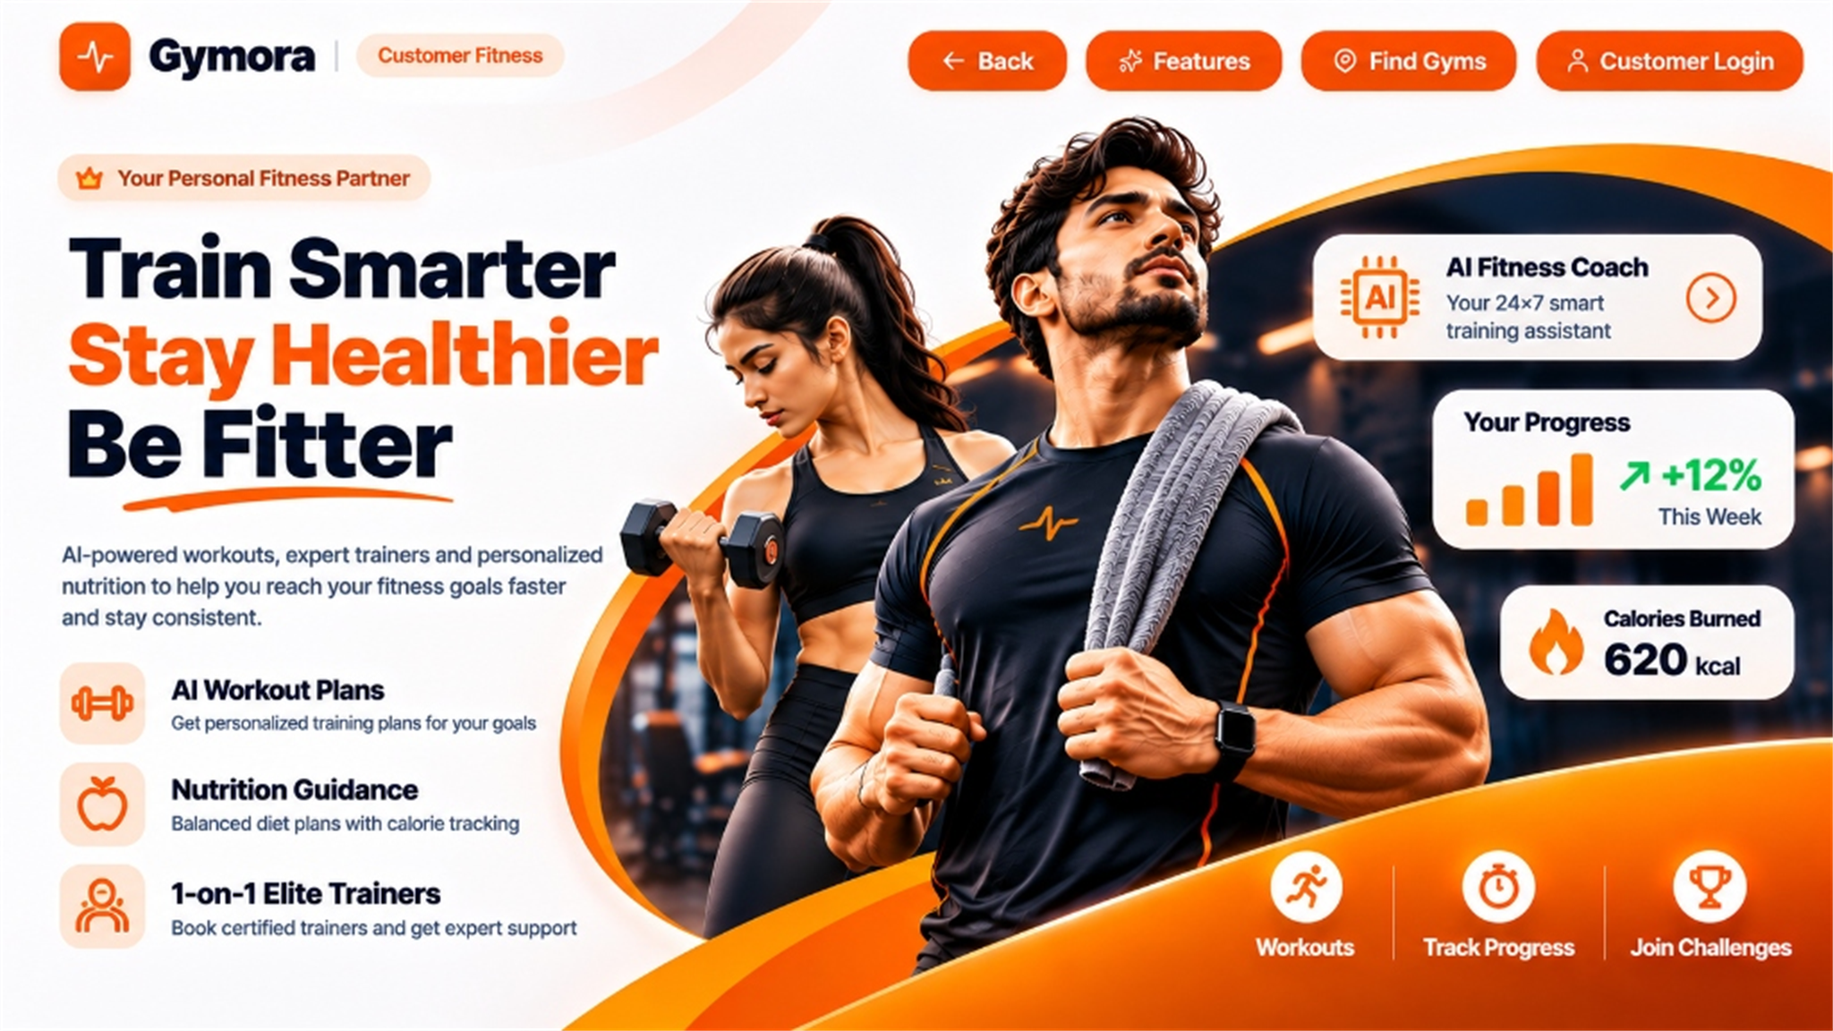
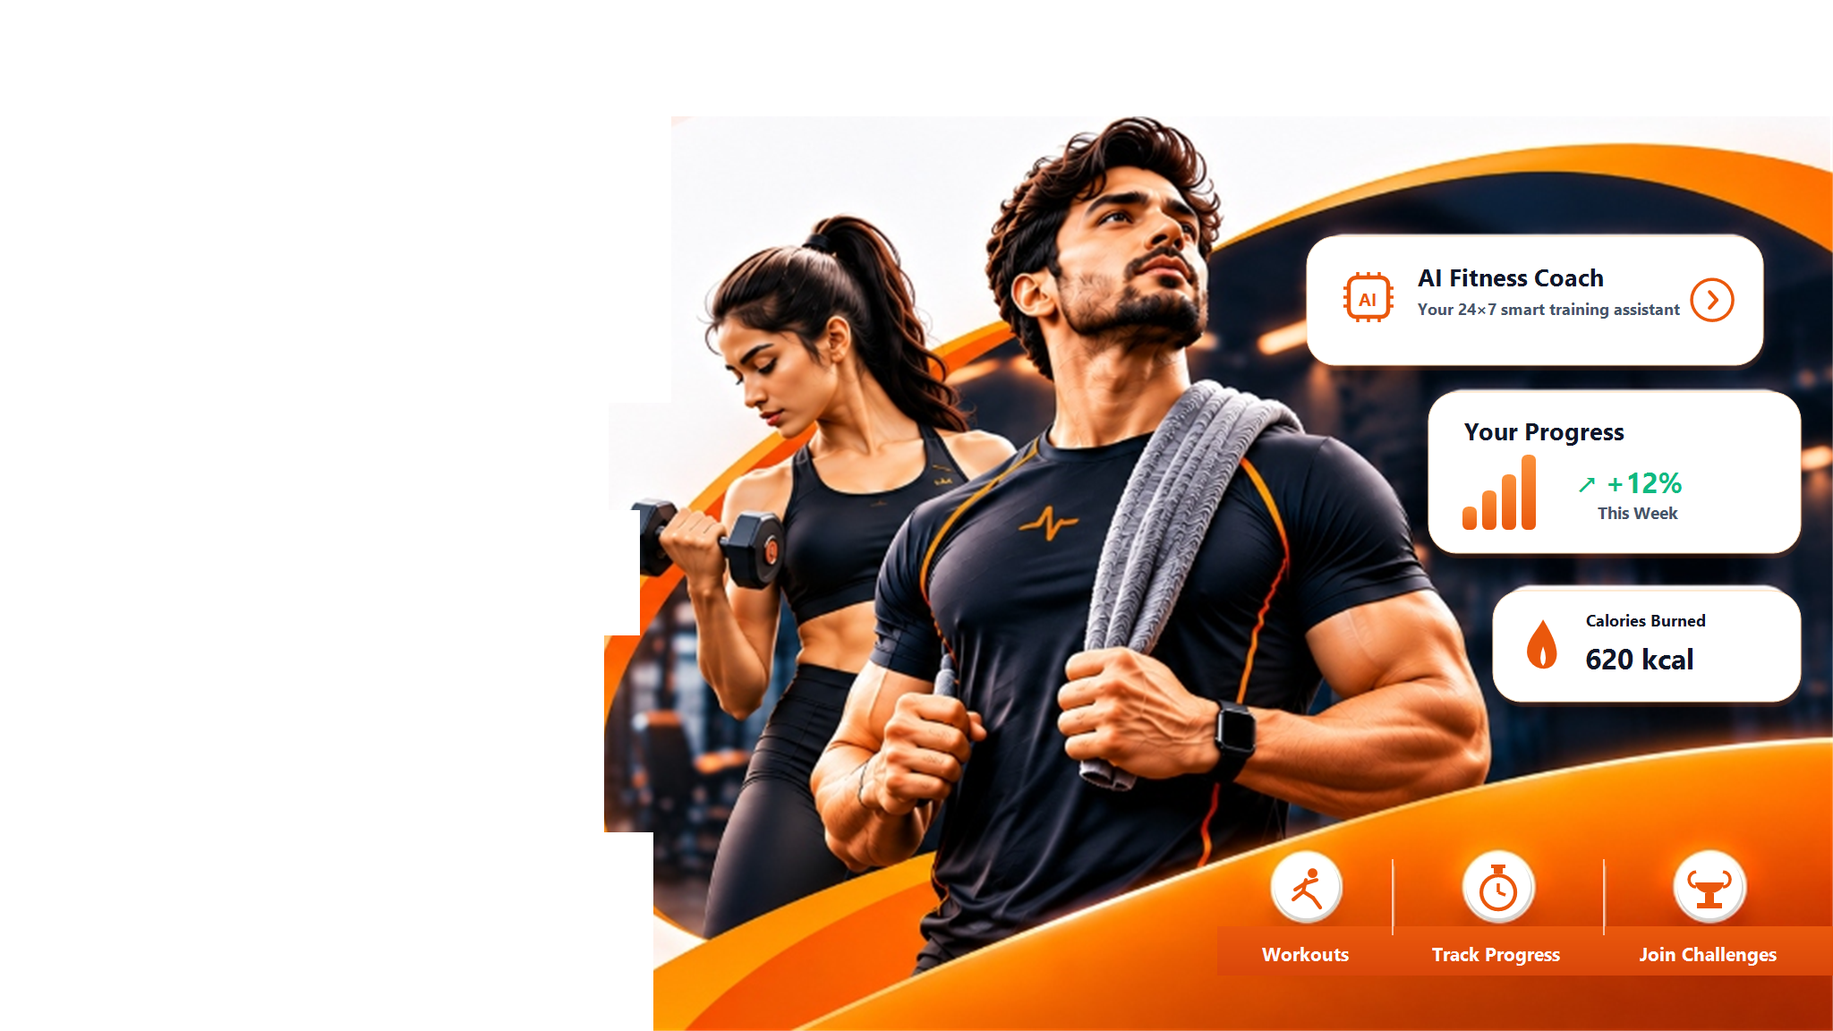
alignment changes updated

diff --git a/frontend/src/pages/portals/CustomerPortalLanding.tsx b/frontend/src/pages/portals/CustomerPortalLanding.tsx
@@ -38,7 +38,8 @@ import {
   Play,
   PlayCircle,
   CheckCircle,
-  User
+  User,
+  Crown
 } from 'lucide-react';
 import api from '../../utils/api';
 import { FeaturePreview } from '../../components/Landing/FeaturePreview';
@@ -300,93 +301,204 @@ const CustomerPortalLanding = () => {
             loading="eager"
           />
 
-          {/* Interactive Clickable Hotspots */}
+          {/* 1. Top Navigation Bar — 100% Vector Sharp, Ultra-Clear Typography */}
+          <div
+            style={{ top: '2.50%', left: '2.44%', right: '2.44%', height: '7.20%' }}
+            className="absolute hidden sm:flex items-center justify-between z-20"
+          >
+            {/* Logo & Portal Badge */}
+            <div className="flex items-center gap-2.5">
+              <Link to="/" className="flex items-center gap-2 outline-none select-none">
+                <div className="w-[2.2vw] h-[2.2vw] min-w-[32px] min-h-[32px] bg-gradient-to-br from-[#EA580C] to-[#F97316] rounded-xl flex items-center justify-center shadow-md shadow-orange-600/30">
+                  <Activity className="w-[55%] h-[55%] text-white stroke-[2.8]" />
+                </div>
+                <span className="font-extrabold text-[clamp(18px,1.8vw,30px)] tracking-tight text-[#0F172A]">
+                  Gymora
+                </span>
+              </Link>
+              <div className="h-4 w-px bg-slate-300 mx-0.5" />
+              <span className="px-3 py-1 rounded-full text-[clamp(10px,0.85vw,13px)] font-bold bg-[#FFF7ED] text-[#EA580C] border border-[#FFEDD5] tracking-wide shadow-xs">
+                Customer Fitness
+              </span>
+            </div>
 
-          {/* 1. Brand Logo (Top-Left) */}
-          <Link
-            to="/"
-            title="Gymora Home"
-            aria-label="Gymora Home"
-            style={{ left: '2.90%', top: '2.50%', width: '27.50%', height: '7.20%', WebkitTapHighlightColor: 'transparent' }}
-            className="absolute rounded-xl cursor-pointer hover:bg-black/5 transition-colors outline-none focus:outline-none focus:ring-0 select-none"
-          />
+            {/* Navigation Action Buttons */}
+            <div className="flex items-center gap-[0.65vw]">
+              <Link
+                to="/"
+                style={{ WebkitTapHighlightColor: 'transparent' }}
+                className="px-[1.2vw] py-[0.55vw] rounded-full bg-[#EA580C] hover:bg-[#D94806] text-white font-extrabold text-[clamp(11px,0.92vw,15px)] flex items-center gap-1.5 shadow-sm active:scale-95 transition-all outline-none"
+              >
+                <ArrowLeft className="w-[1vw] h-[1vw] min-w-[12px] min-h-[12px] stroke-[2.5]" />
+                <span>Back</span>
+              </Link>
 
-          {/* 2. Top-Right: Back Button */}
-          <Link
-            to="/"
-            title="Back to Home"
-            aria-label="Back to Home"
-            style={{ left: '49.60%', top: '2.50%', width: '9.00%', height: '7.20%', WebkitTapHighlightColor: 'transparent' }}
-            className="absolute rounded-full cursor-pointer hover:brightness-105 active:scale-95 transition-all outline-none focus:outline-none focus:ring-0 select-none"
-          />
+              <button
+                type="button"
+                onClick={() => setIsFeaturesOpen(true)}
+                style={{ WebkitTapHighlightColor: 'transparent' }}
+                className="px-[1.2vw] py-[0.55vw] rounded-full bg-[#EA580C] hover:bg-[#D94806] text-white font-extrabold text-[clamp(11px,0.92vw,15px)] flex items-center gap-1.5 shadow-sm active:scale-95 transition-all outline-none cursor-pointer"
+              >
+                <Sparkles className="w-[1vw] h-[1vw] min-w-[12px] min-h-[12px] stroke-[2.5]" />
+                <span>Features</span>
+              </button>
 
-          {/* 3. Top-Right: Features Button */}
-          <button
-            type="button"
-            onClick={() => setIsFeaturesOpen(true)}
-            title="Explore Features"
-            aria-label="Explore Features"
-            style={{ left: '59.20%', top: '2.50%', width: '10.90%', height: '7.20%', WebkitTapHighlightColor: 'transparent' }}
-            className="absolute rounded-full cursor-pointer hover:brightness-105 active:scale-95 transition-all outline-none focus:outline-none focus:ring-0 select-none"
-          />
+              <Link
+                to="/gyms"
+                state={{ from: '/portal/customer', fromLabel: 'Back to Customer' }}
+                style={{ WebkitTapHighlightColor: 'transparent' }}
+                className="px-[1.2vw] py-[0.55vw] rounded-full bg-[#EA580C] hover:bg-[#D94806] text-white font-extrabold text-[clamp(11px,0.92vw,15px)] flex items-center gap-1.5 shadow-sm active:scale-95 transition-all outline-none"
+              >
+                <Compass className="w-[1vw] h-[1vw] min-w-[12px] min-h-[12px] stroke-[2.5]" />
+                <span>Find Gyms</span>
+              </Link>
 
-          {/* 4. Top-Right: Find Gyms Button */}
-          <Link
-            to="/gyms"
-            state={{ from: '/portal/customer', fromLabel: 'Back to Customer' }}
-            title="Find Gyms"
-            aria-label="Find Gyms"
-            style={{ left: '71.00%', top: '2.50%', width: '11.60%', height: '7.20%', WebkitTapHighlightColor: 'transparent' }}
-            className="absolute rounded-full cursor-pointer hover:brightness-105 active:scale-95 transition-all outline-none focus:outline-none focus:ring-0 select-none"
-          />
+              <Link
+                to="/login?portal=customer"
+                style={{ WebkitTapHighlightColor: 'transparent' }}
+                className="px-[1.3vw] py-[0.55vw] rounded-full bg-[#EA580C] hover:bg-[#D94806] text-white font-extrabold text-[clamp(11px,0.92vw,15px)] flex items-center gap-1.5 shadow-sm active:scale-95 transition-all outline-none"
+              >
+                <User className="w-[1vw] h-[1vw] min-w-[12px] min-h-[12px] stroke-[2.5]" />
+                <span>Customer Login</span>
+              </Link>
+            </div>
+          </div>
 
-          {/* 5. Top-Right: Customer Login Button */}
-          <Link
-            to="/login?portal=customer"
-            title="Customer Login"
-            aria-label="Customer Login"
-            style={{ left: '83.80%', top: '2.50%', width: '14.40%', height: '7.20%', WebkitTapHighlightColor: 'transparent' }}
-            className="absolute rounded-full cursor-pointer hover:brightness-105 active:scale-95 transition-all outline-none focus:outline-none focus:ring-0 select-none"
-          />
+          {/* 2. Left Hero Typography & Feature Items — 100% Vector HTML Sharp */}
+          <div
+            style={{ top: '13.5%', left: '3.4%', width: '33.5%', bottom: '3%' }}
+            className="absolute hidden sm:flex flex-col justify-start z-10 select-text"
+          >
+            {/* Top Partner Badge */}
+            <div className="inline-flex items-center gap-1.5 px-3 py-1 rounded-full bg-[#FFF7ED] text-[#EA580C] border border-[#FFEDD5] text-[clamp(10px,0.85vw,13px)] font-bold tracking-wide shadow-xs w-fit mb-[1.2vw]">
+              <Crown className="w-[1vw] h-[1vw] min-w-[13px] min-h-[13px] text-[#EA580C] fill-[#EA580C]" />
+              <span>Your Personal Fitness Partner</span>
+            </div>
 
-          {/* 6. Floating Card: AI Fitness Coach */}
+            {/* 3-Line Headline */}
+            <h1 className="font-black text-[clamp(24px,3.3vw,54px)] leading-[1.08] text-[#0F172A] tracking-tight">
+              <span>Train Smarter</span><br />
+              <span className="relative inline-block text-[#EA580C]">
+                Stay Healthier
+                {/* Underline brush stroke */}
+                <svg className="absolute -bottom-1 left-0 w-full h-[0.35em] text-[#EA580C]" viewBox="0 0 240 16" fill="none" preserveAspectRatio="none">
+                  <path d="M2 12C60 4 180 4 238 12" stroke="currentColor" strokeWidth="4" strokeLinecap="round" />
+                </svg>
+              </span><br />
+              <span>Be Fitter</span>
+            </h1>
+
+            {/* Subtitle */}
+            <p className="mt-[1vw] text-[clamp(11px,0.95vw,15px)] text-[#475569] font-medium leading-relaxed max-w-[96%]">
+              AI-powered workouts, expert trainers and personalized nutrition to help you reach your fitness goals faster and stay consistent.
+            </p>
+
+            {/* 3 Feature Items */}
+            <div className="mt-[1.6vw] space-y-[0.9vw] max-w-[96%]">
+              {/* Item 1: AI Workout Plans */}
+              <div 
+                onClick={() => setShowAiWorkoutModal(true)}
+                className="flex items-center gap-[0.8vw] group cursor-pointer"
+              >
+                <div className="w-[2.6vw] h-[2.6vw] min-w-[34px] min-h-[34px] rounded-xl bg-[#FFF7ED] border border-[#FFEDD5] flex items-center justify-center text-[#EA580C] shadow-xs group-hover:scale-105 transition-transform shrink-0">
+                  <Dumbbell className="w-[50%] h-[50%] stroke-[2.4]" />
+                </div>
+                <div>
+                  <div className="font-extrabold text-[clamp(12px,0.98vw,15.5px)] text-[#0F172A] leading-tight">AI Workout Plans</div>
+                  <div className="text-[clamp(10px,0.8vw,12.5px)] text-[#64748B] font-medium leading-tight">Get personalized training plans for your goals</div>
+                </div>
+              </div>
+
+              {/* Item 2: Nutrition Guidance */}
+              <div 
+                onClick={() => setShowDietFlowchartModal(true)}
+                className="flex items-center gap-[0.8vw] group cursor-pointer"
+              >
+                <div className="w-[2.6vw] h-[2.6vw] min-w-[34px] min-h-[34px] rounded-xl bg-[#FFF7ED] border border-[#FFEDD5] flex items-center justify-center text-[#EA580C] shadow-xs group-hover:scale-105 transition-transform shrink-0">
+                  <Apple className="w-[50%] h-[50%] stroke-[2.4]" />
+                </div>
+                <div>
+                  <div className="font-extrabold text-[clamp(12px,0.98vw,15.5px)] text-[#0F172A] leading-tight">Nutrition Guidance</div>
+                  <div className="text-[clamp(10px,0.8vw,12.5px)] text-[#64748B] font-medium leading-tight">Balanced diet plans with calorie tracking</div>
+                </div>
+              </div>
+
+              {/* Item 3: 1-on-1 Elite Trainers */}
+              <Link 
+                to="/trainers" 
+                className="flex items-center gap-[0.8vw] group"
+              >
+                <div className="w-[2.6vw] h-[2.6vw] min-w-[34px] min-h-[34px] rounded-xl bg-[#FFF7ED] border border-[#FFEDD5] flex items-center justify-center text-[#EA580C] shadow-xs group-hover:scale-105 transition-transform shrink-0">
+                  <User className="w-[50%] h-[50%] stroke-[2.4]" />
+                </div>
+                <div>
+                  <div className="font-extrabold text-[clamp(12px,0.98vw,15.5px)] text-[#0F172A] leading-tight">1-on-1 Elite Trainers</div>
+                  <div className="text-[clamp(10px,0.8vw,12.5px)] text-[#64748B] font-medium leading-tight">Book certified trainers and get expert support</div>
+                </div>
+              </Link>
+            </div>
+          </div>
+
+          {/* 3. Interactive Clickable Hotspots for Right Floating Cards */}
+          {/* Card 1: AI Fitness Coach */}
           <button
             type="button"
             onClick={() => setShowAiWorkoutModal(true)}
             title="Launch AI Fitness Coach"
             aria-label="Launch AI Fitness Coach"
-            style={{ left: '71.50%', top: '22.50%', width: '25.00%', height: '11.00%', WebkitTapHighlightColor: 'transparent' }}
-            className="absolute rounded-2xl cursor-pointer hover:bg-black/5 active:scale-98 transition-all outline-none focus:outline-none focus:ring-0 select-none"
+            style={{ left: '71.30%', top: '22.90%', width: '24.90%', height: '12.50%', WebkitTapHighlightColor: 'transparent' }}
+            className="absolute rounded-2xl cursor-pointer hover:bg-black/5 active:scale-98 transition-all outline-none focus:outline-none focus:ring-0 select-none z-10"
           />
 
-          {/* 7. Bottom Right Badge: Workouts */}
+          {/* Card 2: Your Progress */}
+          <button
+            type="button"
+            onClick={() => setIsFeaturesOpen(true)}
+            title="View Your Progress"
+            aria-label="View Your Progress"
+            style={{ left: '77.90%', top: '38.00%', width: '20.30%', height: '15.60%', WebkitTapHighlightColor: 'transparent' }}
+            className="absolute rounded-2xl cursor-pointer hover:bg-black/5 active:scale-98 transition-all outline-none focus:outline-none focus:ring-0 select-none z-10"
+          />
+
+          {/* Card 3: Calories Burned */}
+          <button
+            type="button"
+            onClick={() => setIsFeaturesOpen(true)}
+            title="Calories Burned & Nutrition"
+            aria-label="Calories Burned & Nutrition"
+            style={{ left: '81.40%', top: '57.30%', width: '16.80%', height: '10.80%', WebkitTapHighlightColor: 'transparent' }}
+            className="absolute rounded-2xl cursor-pointer hover:bg-black/5 active:scale-98 transition-all outline-none focus:outline-none focus:ring-0 select-none z-10"
+          />
+
+          {/* 4. Interactive Hotspots for Bottom Right Badges */}
+          {/* Badge 1: Workouts */}
           <button
             type="button"
             onClick={() => setShowAiWorkoutModal(true)}
             title="AI Workouts"
             aria-label="AI Workouts"
-            style={{ left: '67.50%', top: '81.00%', width: '9.50%', height: '15.00%', WebkitTapHighlightColor: 'transparent' }}
-            className="absolute rounded-2xl cursor-pointer hover:bg-black/5 active:scale-95 transition-all outline-none focus:outline-none focus:ring-0 select-none"
+            style={{ left: '68.00%', top: '81.00%', width: '9.00%', height: '15.00%', WebkitTapHighlightColor: 'transparent' }}
+            className="absolute rounded-2xl cursor-pointer hover:bg-black/5 active:scale-95 transition-all outline-none focus:outline-none focus:ring-0 select-none z-10"
           />
 
-          {/* 8. Bottom Right Badge: Track Progress */}
+          {/* Badge 2: Track Progress */}
           <button
             type="button"
             onClick={() => setIsFeaturesOpen(true)}
             title="Track Progress"
             aria-label="Track Progress"
-            style={{ left: '78.50%', top: '81.00%', width: '10.50%', height: '15.00%', WebkitTapHighlightColor: 'transparent' }}
-            className="absolute rounded-2xl cursor-pointer hover:bg-black/5 active:scale-95 transition-all outline-none focus:outline-none focus:ring-0 select-none"
+            style={{ left: '78.50%', top: '81.00%', width: '10.00%', height: '15.00%', WebkitTapHighlightColor: 'transparent' }}
+            className="absolute rounded-2xl cursor-pointer hover:bg-black/5 active:scale-95 transition-all outline-none focus:outline-none focus:ring-0 select-none z-10"
           />
 
-          {/* 9. Bottom Right Badge: Join Challenges */}
+          {/* Badge 3: Join Challenges */}
           <button
             type="button"
             onClick={() => setIsFeaturesOpen(true)}
             title="Join Challenges"
             aria-label="Join Challenges"
             style={{ left: '90.00%', top: '81.00%', width: '9.00%', height: '15.00%', WebkitTapHighlightColor: 'transparent' }}
-            className="absolute rounded-2xl cursor-pointer hover:bg-black/5 active:scale-95 transition-all outline-none focus:outline-none focus:ring-0 select-none"
+            className="absolute rounded-2xl cursor-pointer hover:bg-black/5 active:scale-95 transition-all outline-none focus:outline-none focus:ring-0 select-none z-10"
           />
         </div>
 

diff --git a/frontend/src/pages/portals/GymOwnerPortalLanding.tsx b/frontend/src/pages/portals/GymOwnerPortalLanding.tsx
@@ -1,4 +1,4 @@
-import { useState, useEffect } from 'react';
+import { useState, useEffect } from 'react';
 import { Link, useLocation } from 'react-router-dom';
 import gymLandingImg1 from '../../assets/GYM landing page image 1.jpg';
 import gymLandingImg2 from '../../assets/GYM landing page image 2.jpg';
@@ -418,7 +418,7 @@ const GymOwnerPortalLanding = () => {
         <div className="w-full relative select-none">
           {/* Master 2x 2048x952 Artwork matching Reference 1 Exactly */}
           <img
-            src="/gym-owner-hero-unified-2x.png"
+            src="/gym-owner-hero-unified-2x.png?v=3"
             alt="Gymora Gym Owner - Scale Your Gym Operations & Maximize Member Retention"
             className="w-full h-auto block object-cover select-none pointer-events-none"
             loading="eager"
@@ -426,13 +426,13 @@ const GymOwnerPortalLanding = () => {
 
           {/* 1. Top Navigation Bar â€” 100% Vector Sharp, Ultra-Clear Typography */}
           <div
-            style={{ top: '2.50%', left: '2.44%', right: '2.44%', height: '7.20%' }}
+            style={{ top: '3.60%', left: '4.69%', right: '4.69%', height: '6.20%' }}
             className="absolute hidden sm:flex items-center justify-between z-20"
           >
             {/* Logo & Portal Badge */}
-            <div className="flex items-center gap-2.5">
+            <div className="flex items-center gap-2.5 h-full">
               <Link to="/" className="flex items-center gap-2 outline-none select-none">
-                <div className="w-[2.2vw] h-[2.2vw] min-w-[32px] min-h-[32px] bg-gradient-to-br from-[#EA580C] to-[#F97316] rounded-xl flex items-center justify-center shadow-md shadow-orange-600/30">
+                <div className="h-full aspect-square bg-gradient-to-br from-[#EA580C] to-[#F97316] rounded-[22%] flex items-center justify-center shadow-md shadow-orange-600/30">
                   <Activity className="w-[55%] h-[55%] text-white stroke-[2.8]" />
                 </div>
                 <span className="font-extrabold text-[clamp(18px,1.8vw,30px)] tracking-tight text-[#0F172A]">
@@ -445,11 +445,11 @@ const GymOwnerPortalLanding = () => {
             </div>
 
             {/* Navigation Action Buttons */}
-            <div className="flex items-center gap-[0.65vw]">
+            <div className="flex items-center gap-[0.55vw] h-full">
               <Link
                 to="/"
                 style={{ WebkitTapHighlightColor: 'transparent' }}
-                className="px-[1.2vw] py-[0.55vw] rounded-full bg-[#EA580C] hover:bg-[#D94806] text-white font-extrabold text-[clamp(11px,0.92vw,15px)] flex items-center gap-1.5 shadow-sm active:scale-95 transition-all outline-none"
+                className="h-full px-[1.1vw] rounded-full bg-[#EA580C] hover:bg-[#D94806] text-white font-extrabold text-[clamp(11px,0.92vw,15px)] flex items-center justify-center leading-none gap-1.5 shadow-sm active:scale-95 transition-all outline-none"
               >
                 <ArrowLeft className="w-[1vw] h-[1vw] min-w-[12px] min-h-[12px] stroke-[2.5]" />
                 <span>Back</span>
@@ -459,7 +459,7 @@ const GymOwnerPortalLanding = () => {
                 type="button"
                 onClick={() => { setTourStep(1); setIsTourOpen(true); }}
                 style={{ WebkitTapHighlightColor: 'transparent' }}
-                className="px-[1.2vw] py-[0.55vw] rounded-full bg-[#EA580C] hover:bg-[#D94806] text-white font-extrabold text-[clamp(11px,0.92vw,15px)] flex items-center gap-1.5 shadow-sm active:scale-95 transition-all outline-none cursor-pointer"
+                className="h-full px-[1.1vw] rounded-full bg-[#EA580C] hover:bg-[#D94806] text-white font-extrabold text-[clamp(11px,0.92vw,15px)] flex items-center justify-center leading-none gap-1.5 shadow-sm active:scale-95 transition-all outline-none cursor-pointer"
               >
                 <PlayCircle className="w-[1vw] h-[1vw] min-w-[12px] min-h-[12px]" />
                 <span>Gym Owner Journey</span>
@@ -468,7 +468,7 @@ const GymOwnerPortalLanding = () => {
               <a
                 href="#pricing"
                 style={{ WebkitTapHighlightColor: 'transparent' }}
-                className="px-[1.2vw] py-[0.55vw] rounded-full bg-[#EA580C] hover:bg-[#D94806] text-white font-extrabold text-[clamp(11px,0.92vw,15px)] flex items-center shadow-sm active:scale-95 transition-all outline-none"
+                className="h-full px-[1.1vw] rounded-full bg-[#EA580C] hover:bg-[#D94806] text-white font-extrabold text-[clamp(11px,0.92vw,15px)] flex items-center justify-center leading-none shadow-sm active:scale-95 transition-all outline-none"
               >
                 Platform Pricing
               </a>
@@ -476,7 +476,7 @@ const GymOwnerPortalLanding = () => {
               <Link
                 to="/gym-owner-introduction"
                 style={{ WebkitTapHighlightColor: 'transparent' }}
-                className="px-[1.2vw] py-[0.55vw] rounded-full bg-[#EA580C] hover:bg-[#D94806] text-white font-extrabold text-[clamp(11px,0.92vw,15px)] flex items-center shadow-sm active:scale-95 transition-all outline-none"
+                className="h-full px-[1.1vw] rounded-full bg-[#EA580C] hover:bg-[#D94806] text-white font-extrabold text-[clamp(11px,0.92vw,15px)] flex items-center justify-center leading-none shadow-sm active:scale-95 transition-all outline-none"
               >
                 Register Gym
               </Link>
@@ -484,7 +484,7 @@ const GymOwnerPortalLanding = () => {
               <Link
                 to="/login?portal=gym-owner"
                 style={{ WebkitTapHighlightColor: 'transparent' }}
-                className="px-[1.3vw] py-[0.55vw] rounded-full bg-[#EA580C] hover:bg-[#D94806] text-white font-extrabold text-[clamp(11px,0.92vw,15px)] flex items-center shadow-sm active:scale-95 transition-all outline-none"
+                className="h-full px-[1.2vw] rounded-full bg-[#EA580C] hover:bg-[#D94806] text-white font-extrabold text-[clamp(11px,0.92vw,15px)] flex items-center justify-center leading-none shadow-sm active:scale-95 transition-all outline-none"
               >
                 Gym Owner Login
               </Link>
@@ -1987,7 +1987,7 @@ const GymOwnerPortalLanding = () => {
                   </p>
                 </div>
               </div>
-              <div className="flex items-center gap-2.5">
+              <div className="flex items-center gap-2.5 h-full">
                 <button
                   onClick={() => setIsTourOpen(false)}
                   className="flex items-center gap-1.5 px-3.5 py-1.5 bg-[#C2410C] hover:bg-[#9A3412] text-white font-bold text-xs sm:text-sm rounded-full transition-all shadow-md cursor-pointer"
